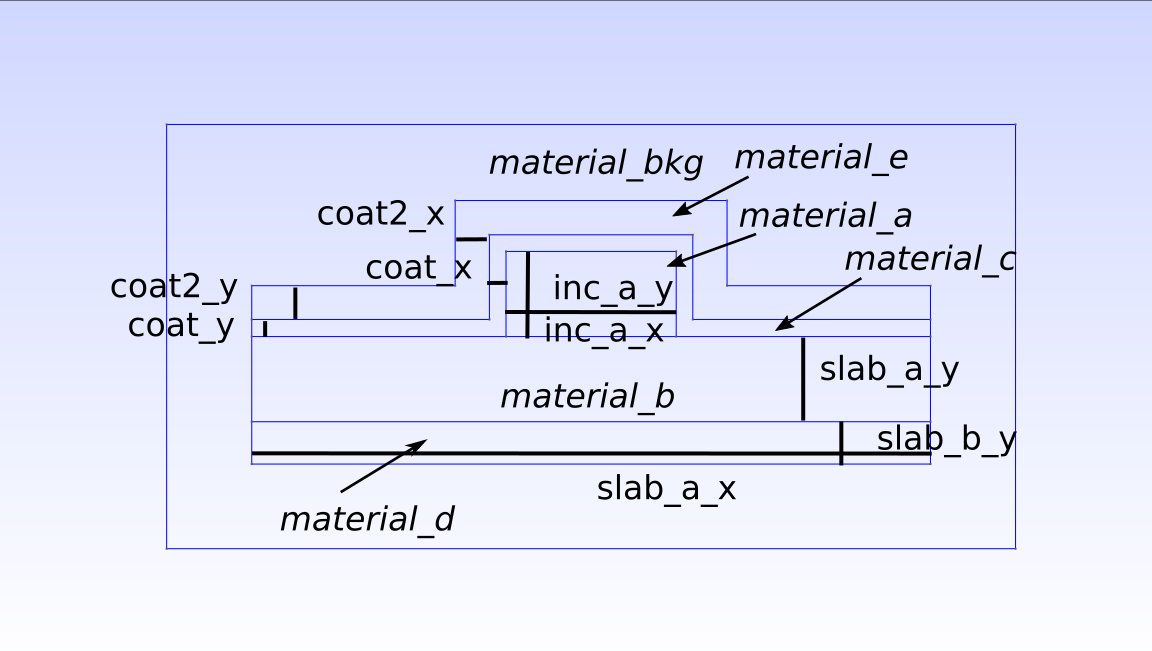
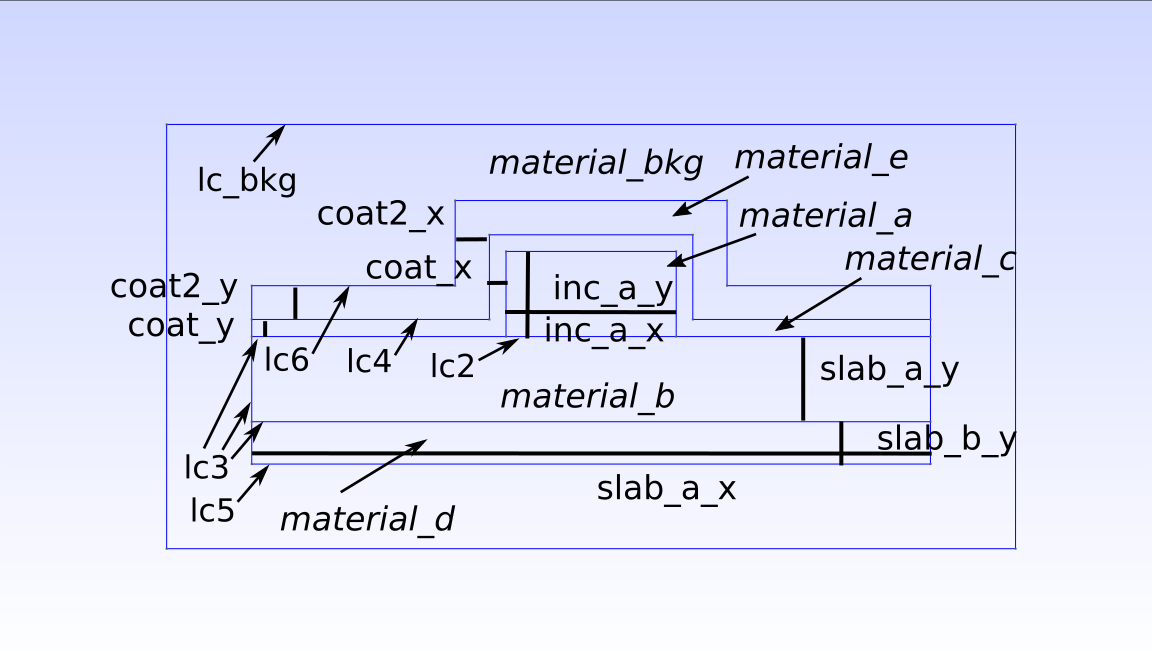
Added lc params to png mesh library and in process cleaned up definitions.

diff --git a/backend/objects.py b/backend/objects.py
@@ -669,7 +669,7 @@ class Struct(object):
                     geo = geo.replace('a2 = 10;', "a2 = %f;" % self.inc_b_x)
                     geo = geo.replace('a2y = 20;', "a2y = %f;" % self.inc_b_y)
                     geo = geo.replace('sep = 10;', "sep = %f;" % self.two_inc_sep)
-                    geo = geo.replace('lc4 = lc/1;', "lc4 = lc/%f;" % self.lc4)
+                    # geo = geo.replace('lc4 = lc/1;', "lc4 = lc/%f;" % self.lc4)
                 if msh_template == '2':
                     geo = geo.replace('yoff = -5;;', "yoff = %f;" % self.incs_y_offset)
                 if msh_template == '1_on_slab' or msh_template == '1_on_2slabs' or msh_template == '1_on_slab' or msh_template == '2_on_2slabs':
@@ -742,6 +742,7 @@ class Struct(object):
                     geo = geo.replace('lc = 0;', "lc = %f;" % self.lc)
                     geo = geo.replace('lc2 = lc/1;', "lc2 = lc/%f;" % self.lc2)
                     geo = geo.replace('lc3 = lc/1;', "lc3 = lc/%f;" % self.lc3)
+                    geo = geo.replace('lc4 = lc/1;', "lc4 = lc/%f;" % self.lc4)
 
         elif self.inc_shape in ['rib']:
                 msh_template = 'rib'
@@ -790,6 +791,7 @@ class Struct(object):
                     geo = geo.replace('lc = 0;', "lc = %f;" % self.lc)
                     geo = geo.replace('lc2 = lc/1;', "lc2 = lc/%f;" % self.lc2)
                     geo = geo.replace('lc3 = lc/1;', "lc3 = lc/%f;" % self.lc3)
+                    geo = geo.replace('lc4 = lc/1;', "lc4 = lc/%f;" % self.lc4)
 
         elif self.inc_shape in ['rib_double_coated']:
                 msh_template = 'rib_double_coated'
